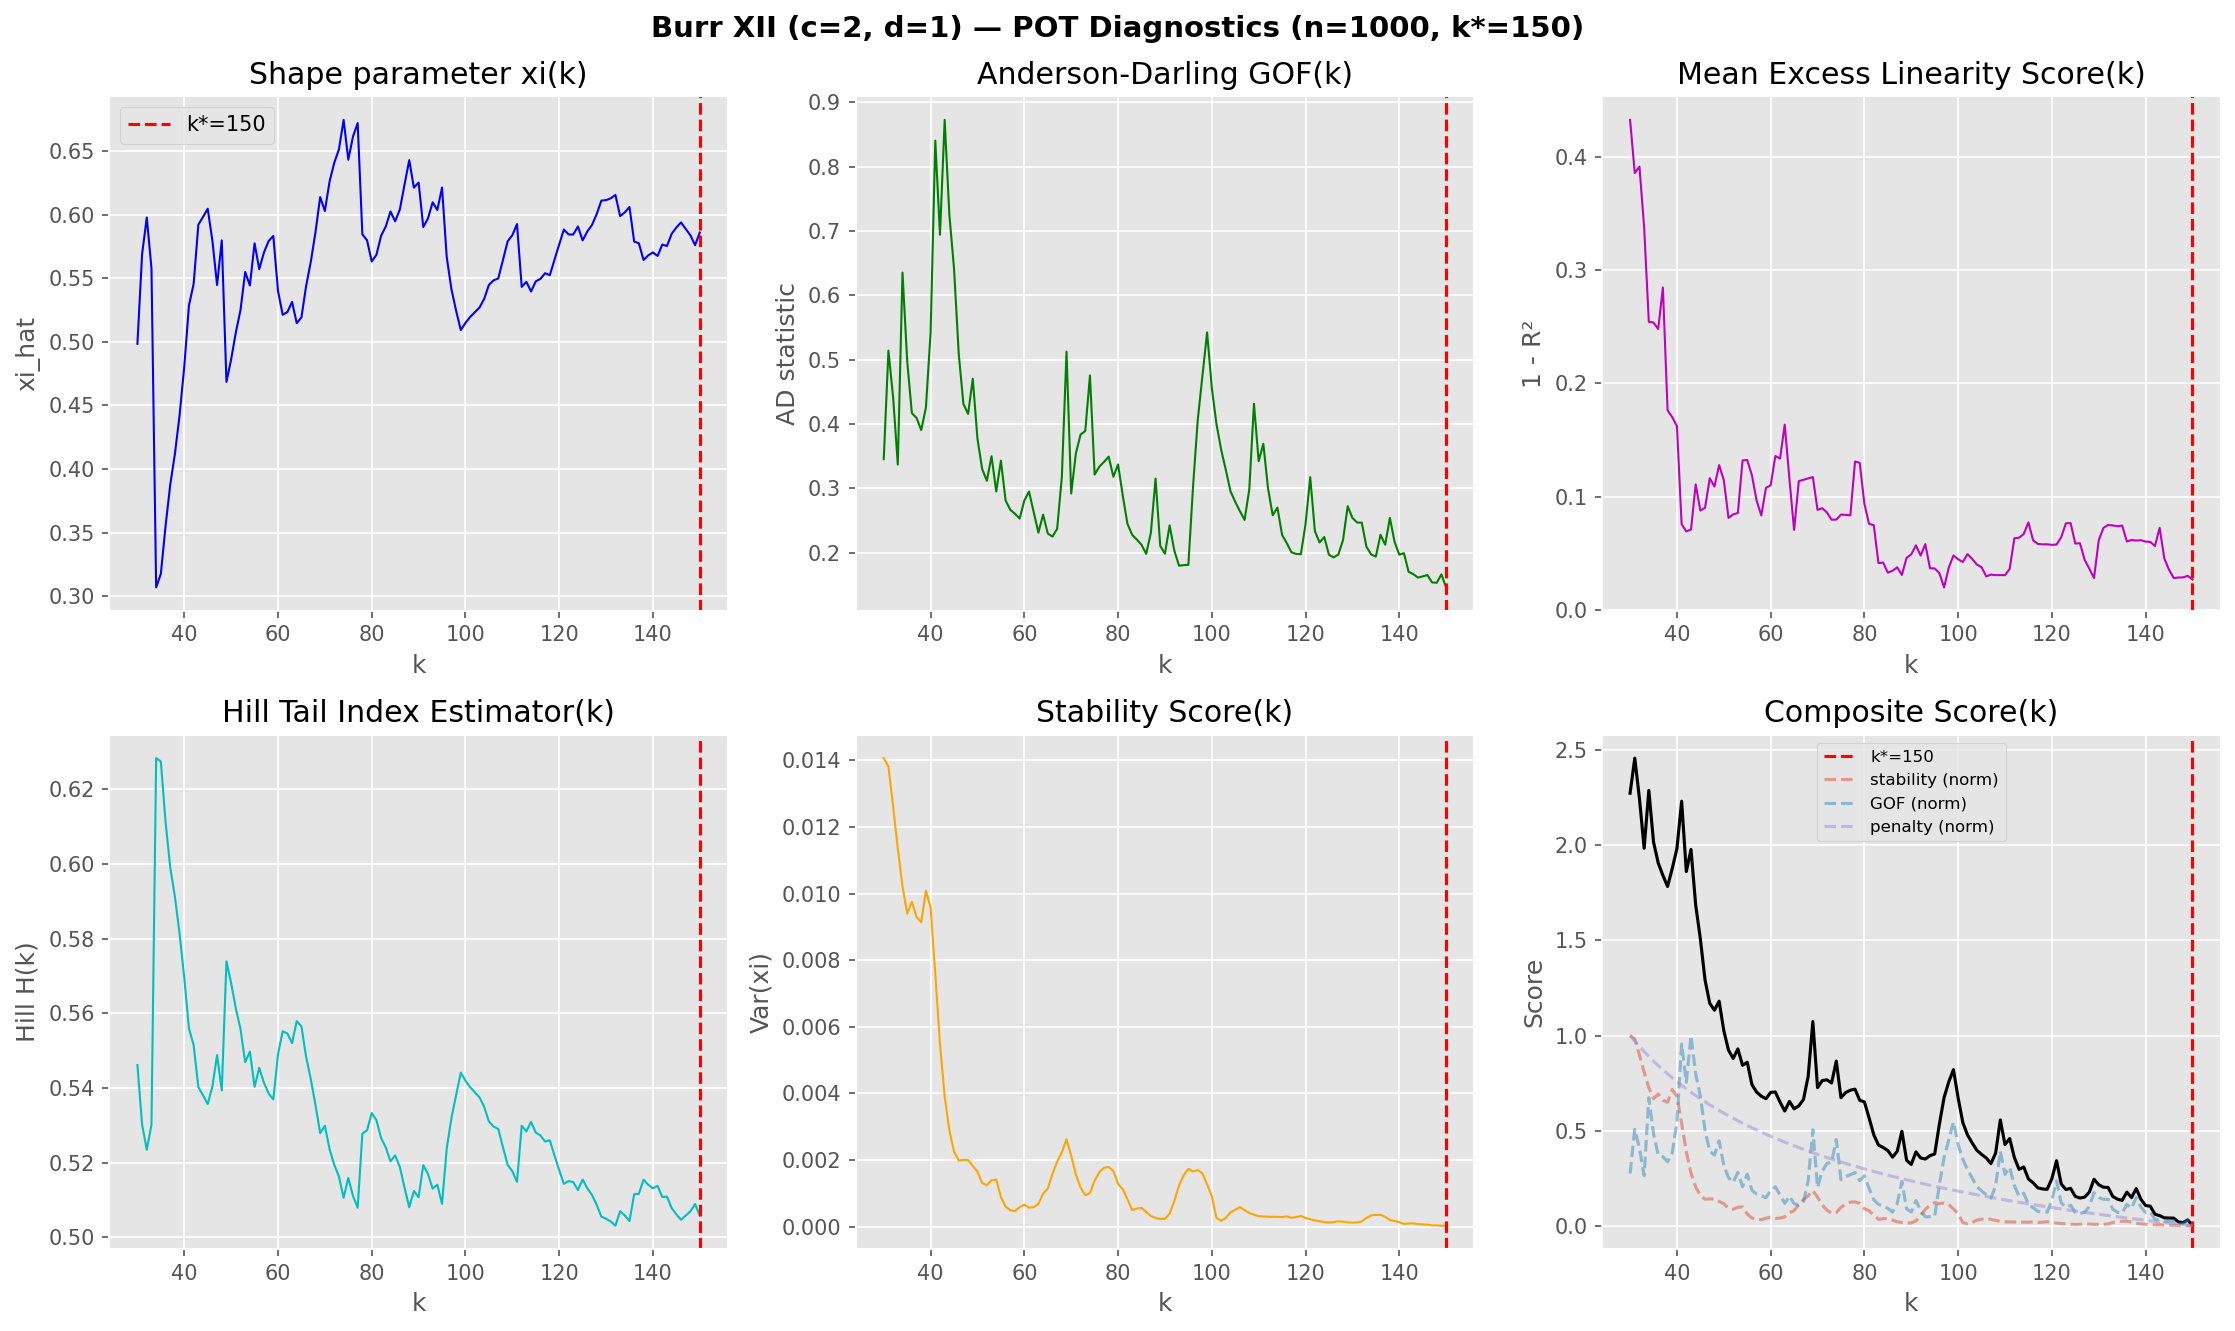
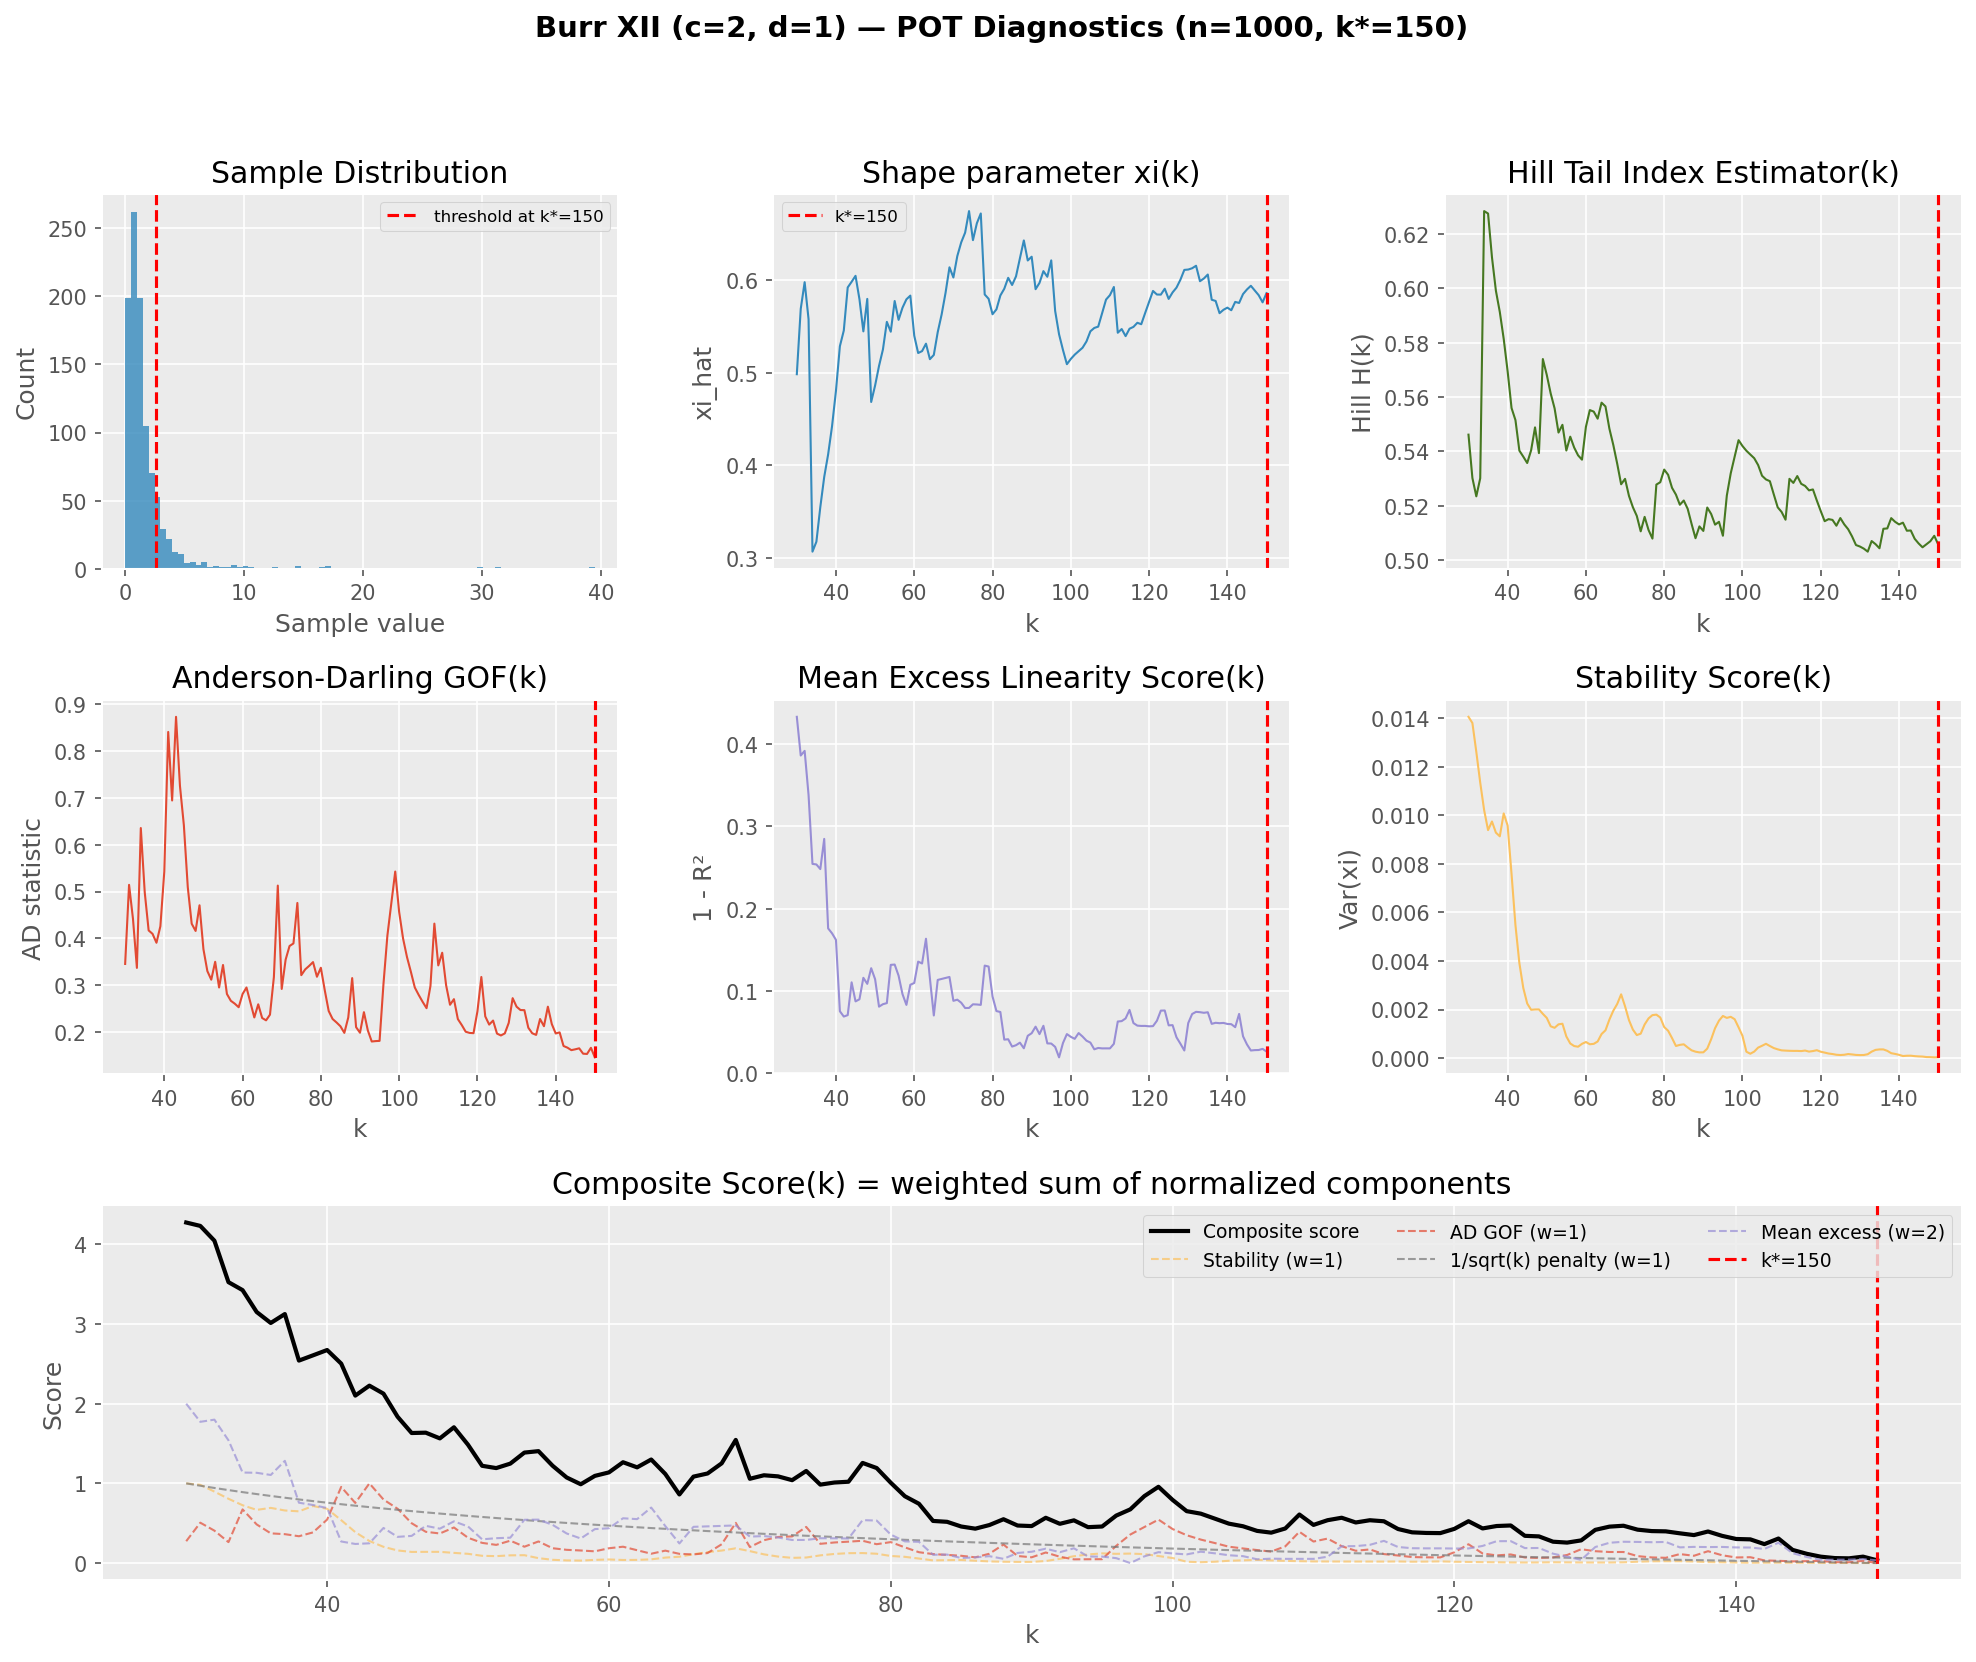
update plots

diff --git a/RESULTS.md b/RESULTS.md
@@ -133,17 +133,15 @@ The project implements an ML-assisted approach to the classical Peaks-over-Thres
 
 **Total:** 43 parameter combinations x 200 replications = **8,400 datasets** (+ 13,440 augmented = 21,840 training samples).
 
-![Diagnostic curves](docs/figures/syn_diagnostic_curves.png)
-
 ### Per-Distribution Diagnostic Examples
 
-The following panels show the 5 diagnostic curves and composite score for representative distributions. Each panel shows xi(k), Anderson-Darling GOF(k), mean excess linearity score(k), Hill estimator(k), stability score(k), and the composite score with its components. The red dashed line marks the selected k*.
+Each panel shows the sample distribution with the threshold at k*, the 5 diagnostic curves (xi, Hill, AD GOF, mean excess linearity, stability), and the composite score with its weighted components (stability w=1, GOF w=1, penalty w=1, mean excess w=2). The red dashed line marks the selected k*.
 
-**Student-t (df=3)** — Heavy-tailed with xi=0.33. The xi(k) curve shows a noisy plateau; the composite score selects k* in the stable region.
+**Student-t (df=3)** — Heavy-tailed with xi=0.33. The xi(k) curve shows a noisy plateau; the composite score selects k* in the stable region. The distribution histogram shows the heavy tail that GPD models.
 
 ![Student-t diagnostics](docs/figures/syn_diagnostics_student-t_df3.png)
 
-**Pareto (alpha=2)** — Pure power-law tail with xi=0.50. Clean plateau in xi(k), low GOF scores across a wide range — an "easy" case for threshold selection.
+**Pareto (alpha=2)** — Pure power-law tail with xi=0.50. Clean plateau in xi(k), low GOF scores across a wide range — an "easy" case for threshold selection. The mean excess component (w=2) dominates the composite score.
 
 ![Pareto diagnostics](docs/figures/syn_diagnostics_pareto_alpha2.png)
 
@@ -151,7 +149,7 @@ The following panels show the 5 diagnostic curves and composite score for repres
 
 ![Burr XII diagnostics](docs/figures/syn_diagnostics_burr_xii_c2_d1.png)
 
-**Lognormal (sigma=1)** — Gumbel MDA with xi=0 (subexponential tail). The xi(k) curve drifts downward rather than plateauing, making threshold selection harder. The scoring function must balance stability against GOF in the absence of a clear plateau.
+**Lognormal (sigma=1)** — Gumbel MDA with xi=0 (subexponential tail). The xi(k) curve drifts downward rather than plateauing, making threshold selection harder. The scoring function must balance stability against GOF in the absence of a clear plateau. The distribution histogram shows the characteristic right-skewed shape.
 
 ![Lognormal diagnostics](docs/figures/syn_diagnostics_lognormal_sigma1.png)
 
